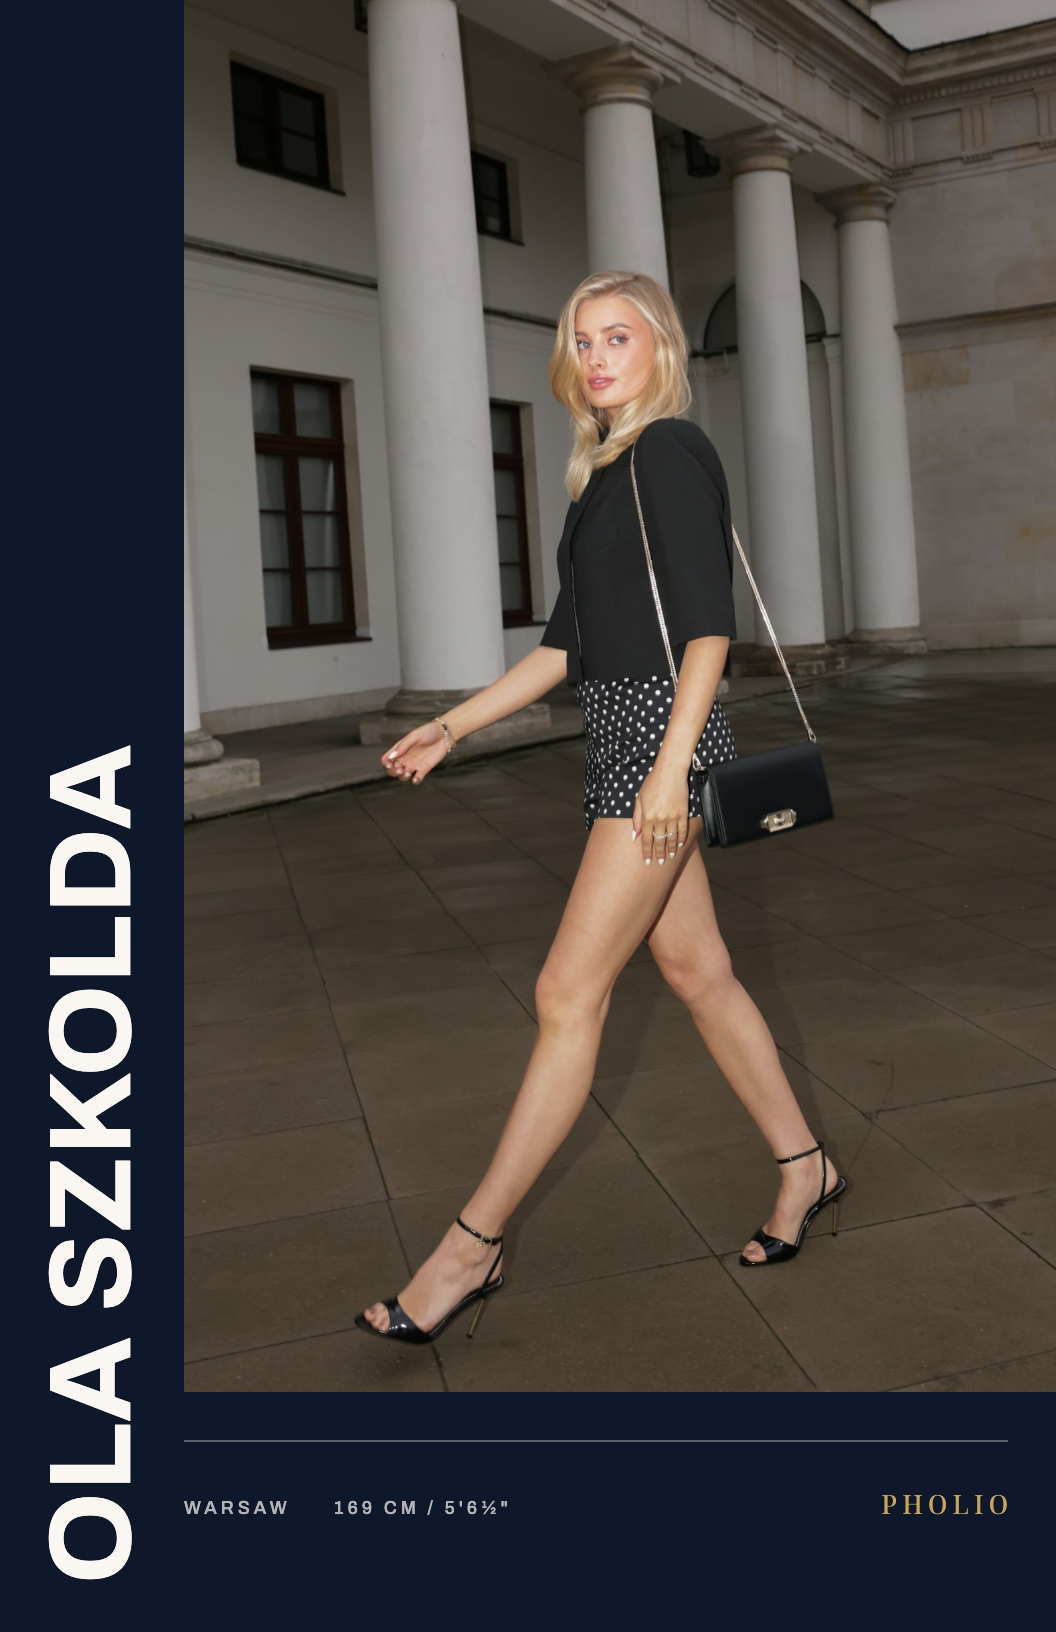
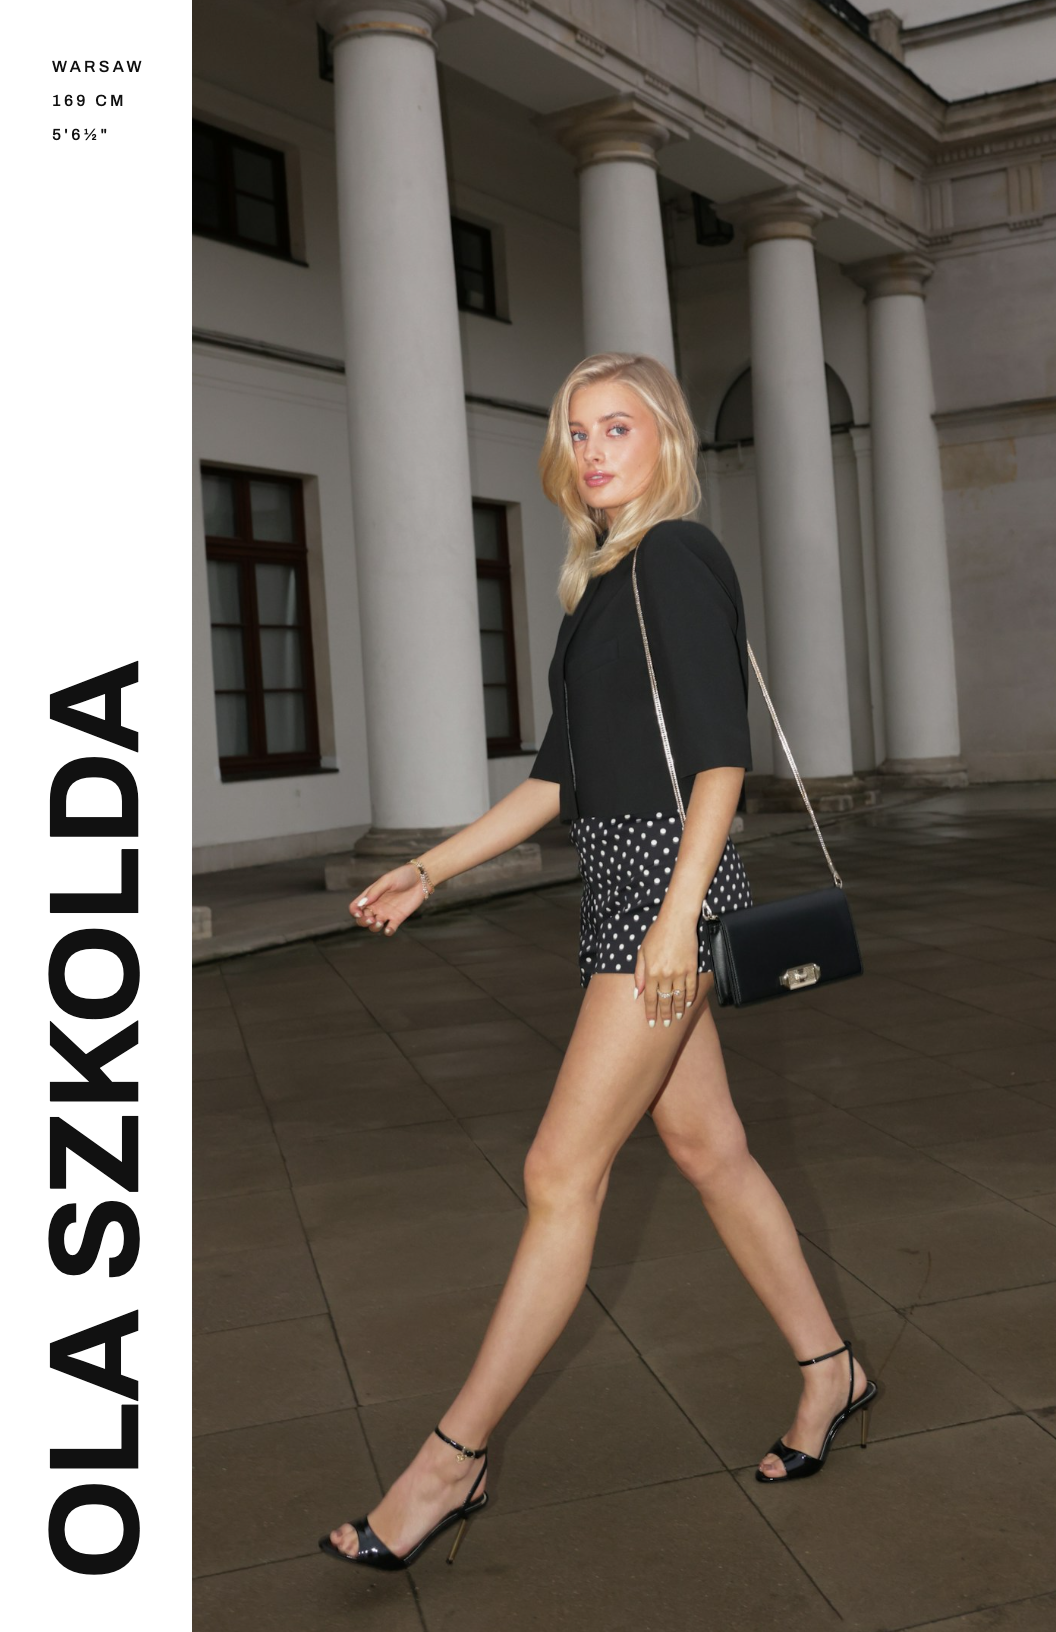
feat(comp-card): finish The Grid as a two-column rail on white paper
Redesigned from a round of six executions judged at card and row size. The
navy field, the rule and the PHOLIO mark are gone: the front is the
talent's artifact. What remains is a type rail (name up the left edge in
Archivo 700, city and height at its head) and the walking frame as the
other column, bleeding top, right and foot. Colour comes only from the
photograph on white paper.

Claude-Session: https://claude.ai/code/session_016qt2DmovPdiFfhPVsvgz4U

diff --git a/scripts/comp-card-fronts/grid.html b/scripts/comp-card-fronts/grid.html
@@ -2,22 +2,19 @@
 <title>The Grid</title>
 <style>
   {{FONT_FACES}}
-  :root { --ink: #0f172a; --paper: #faf7f2; --gold: #c9a55a; }
+  :root { --paper: #ffffff; --ink: #111111; }
   * { margin: 0; padding: 0; box-sizing: border-box; }
-  html, body { width: {{PAGE_W}}px; height: {{PAGE_H}}px; background: var(--ink); }
-  .card { position: relative; width: {{PAGE_W}}px; height: {{PAGE_H}}px; background: var(--ink); overflow: hidden; }
+  html, body { width: {{PAGE_W}}px; height: {{PAGE_H}}px; background: var(--paper); }
+  .card { position: relative; width: {{PAGE_W}}px; height: {{PAGE_H}}px; background: var(--paper); overflow: hidden; }
   .cell { position: absolute; overflow: hidden; }
   .cell img { position: absolute; display: block; }
 
-  /* The spine rail: the name reads bottom-to-top along the left edge. */
-  .spine {
-    position: absolute;
-    left: 0; top: 0; bottom: 0;
-    width: {{SPINE_W}}px;
-  }
+  /* The rail. Two columns and nothing else: the name reads up the left
+     edge, the city and height sit at its head, the photograph is the
+     other column and runs off the top, right and foot of the page. */
   .name {
     position: absolute;
-    left: 50%;
+    left: {{RAIL_AXIS}}px;
     bottom: {{M}}px;
     transform: translateX(-50%) rotate(180deg);
     writing-mode: vertical-rl;
@@ -25,51 +22,24 @@
     font-weight: 700;
     font-size: {{NAME_SIZE}}px;
     line-height: 1;
-    letter-spacing: 0.01em;
-    color: var(--paper);
+    letter-spacing: 0.005em;
+    color: var(--ink);
     white-space: nowrap;
   }
-
-  .rule {
+  .info {
     position: absolute;
-    left: {{SPINE_W}}px; right: {{M}}px;
-    top: {{RULE_Y}}px;
-    height: 1px;
-    background: rgba(250, 247, 242, 0.32);
-  }
-  .foot {
-    position: absolute;
-    left: {{SPINE_W}}px; right: {{M}}px;
-    top: {{FOOT_Y}}px;
-    display: flex;
-    justify-content: space-between;
-    align-items: baseline;
-  }
-  .meta {
+    left: {{M}}px;
+    top: {{M}}px;
     font-family: "CardBody", system-ui, sans-serif;
     font-weight: 500;
-    font-size: {{FOOT_SIZE}}px;
-    line-height: 1;
-    letter-spacing: 0.22em;
-    color: rgba(250, 247, 242, 0.7);
-  }
-  .meta span + span { margin-left: 2.4em; }
-  .wordmark {
-    font-family: "CardWordmark", Georgia, serif;
-    font-weight: 400;
-    font-size: {{MARK_SIZE}}px;
-    line-height: 1;
+    font-size: {{INFO_SIZE}}px;
+    line-height: 2.1;
     letter-spacing: 0.2em;
-    margin-right: -0.2em;
-    color: var(--gold);
+    color: var(--ink);
   }
 </style>
 <div class="card">
   {{PHOTO}}
-  <div class="spine"><div class="name">{{NAME}}</div></div>
-  <div class="rule"></div>
-  <div class="foot">
-    <div class="meta"><span>{{CITY}}</span><span>{{HEIGHT}}</span></div>
-    <div class="wordmark">PHOLIO</div>
-  </div>
+  <div class="name">{{NAME}}</div>
+  <div class="info">{{INFO}}</div>
 </div>

diff --git a/components/comp-card/data.ts b/components/comp-card/data.ts
@@ -70,8 +70,8 @@ export const CARD_VARIANTS: CardVariant[] = [
     src: "/generated/comp-card/ola-editorial-masthead-front.png",
     edition: "The Masthead",
   },
-  // Structural, reversed: ink field, the name run up a spine rail in a bold
-  // grotesque, the walking frame set into a column module.
+  // Structural: white paper, two columns and nothing else. The name runs up
+  // a type rail in a bold grotesque; the walking frame is the other column.
   {
     src: "/generated/comp-card/ola-grid-composed.png",
     edition: "The Grid",

diff --git a/lessons.md b/lessons.md
@@ -1258,12 +1258,11 @@ same talent record as the back), and each one varies on every axis at once:
 
 | Card | Structure | Field | Photograph | Voice |
 | --- | --- | --- | --- | --- |
-| The Grid | spine rail, one column module bleeding top and right | ink, reversed | the walking full-length | Archivo 700, name set vertically |
+| The Grid | a type rail and one photograph column bleeding top, right and foot | white paper | the walking full-length | Archivo 700, name set vertically |
 | The Strip | full-bleed hero over a three-frame foot strip | cream | the clearest face, then beauty / full-length / detail | Manrope 700 caps |
 | The Diptych | two tall panels on a hinge rule | cream | studio beauty in B&W beside the full length in colour | Playfair Display caps, centred |
 
-Four cards, four photographs leading, two fields, four typefaces, four
-structures. The labels are the shipped catalog's own (`editions.js`: The
+Four cards, four photographs leading, four typefaces, four structures. The labels are the shipped catalog's own (`editions.js`: The
 Grid is `swiss-modernist`, whose fields allow dark; The Strip is `the-strip`;
 The Diptych is `duet`), so §21's rule still holds: a label names the axis the
 artwork actually varies on.
